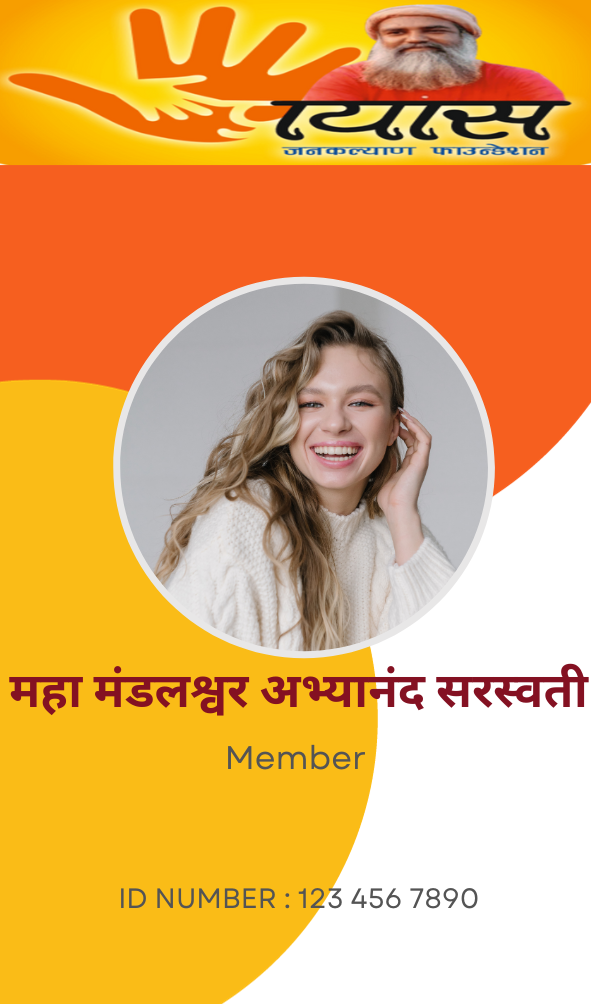
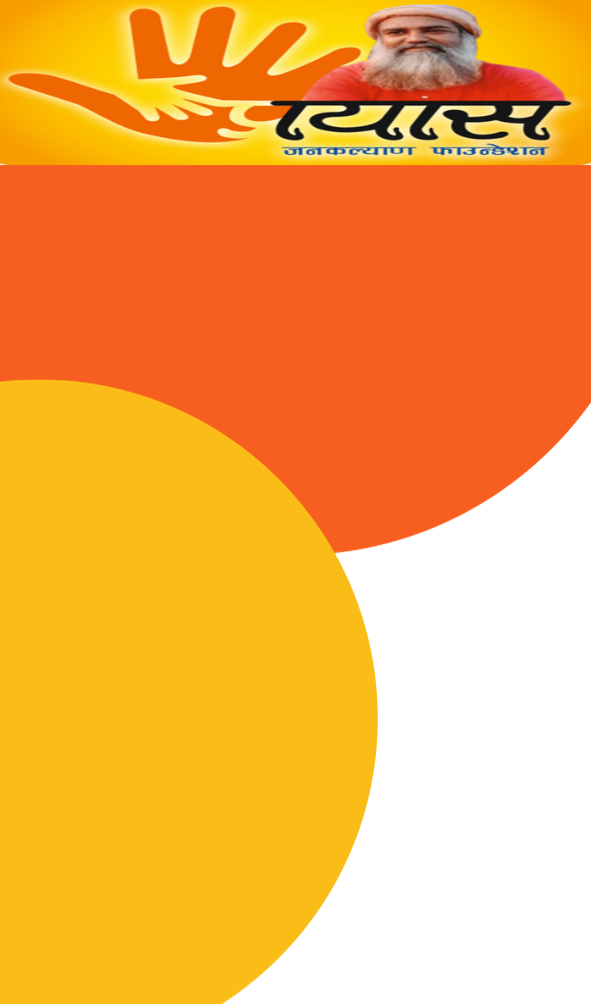
idcard

diff --git a/src/public/css/style.css b/src/public/css/style.css
@@ -4,7 +4,7 @@
 }
 @font-face {
     font-family: 'Arya Regular';
-    src: url('./Arya-Regular.ttf') format('truetype');
+    src: url('../fonts/Arya-Regular.ttf') format('truetype');
     font-display: swap;
 }
 .id-card-holder {
@@ -12,7 +12,7 @@
     padding: 4px;
     margin: 0 auto;
     /* background-color: #1f1f1f; */
-    background-image : url('./2.png');
+   
     border-radius: 5px;
     position: relative;
     overflow:hidden;
@@ -23,14 +23,21 @@
     height:500px;
     display:flex;
     flex-flow:column;
-    background-image : url('../public/1.png');
-    background-size: cover;
-    background-repeat: no-repeat;
     padding: 0px;
     padding-top: 10px;
     border-radius: 10px;
     text-align: center;
     box-shadow: 0 0 1.5px 0px #b9b9b9;
+}
+.id-bg1{
+    background-image : url('../1.png');
+    background-size: cover;
+    background-repeat: no-repeat;
+}
+.id-bg2{
+    background-image : url('../2.png');
+    background-size: cover;
+    background-repeat: no-repeat;
 }
 
 .id-card img {
@@ -64,9 +71,11 @@
 
 
 .photo {
-    background-color:#f7d0ad;
+    /* background-color:#f7d0ad; */
     border: 5px;
     min-height:130px;
+    margin-top: 180px;
+
 }
 
 .photo img {
@@ -172,12 +181,12 @@ p {
 .footer {
     position:absolute;
     bottom:0px;
-    background-color:#f7d0ad;
+    /* background-color:#f7d0ad7b; */
     padding: 5px 10px;
     width:100%;
     /* margin: 0 auto; */
     margin: 0px 3px 3px 0px;
-    font-family :'verdana',
+    font-family: 'verdana',
     
 }
 
@@ -209,7 +218,7 @@ p {
     font-family:'Arya Regular';
     font-size:20px;
     text-align:center;
-    color: #a11a00;
+    color: black;
 }
 .instruction h2{
     font-family:'Arya Regular';
